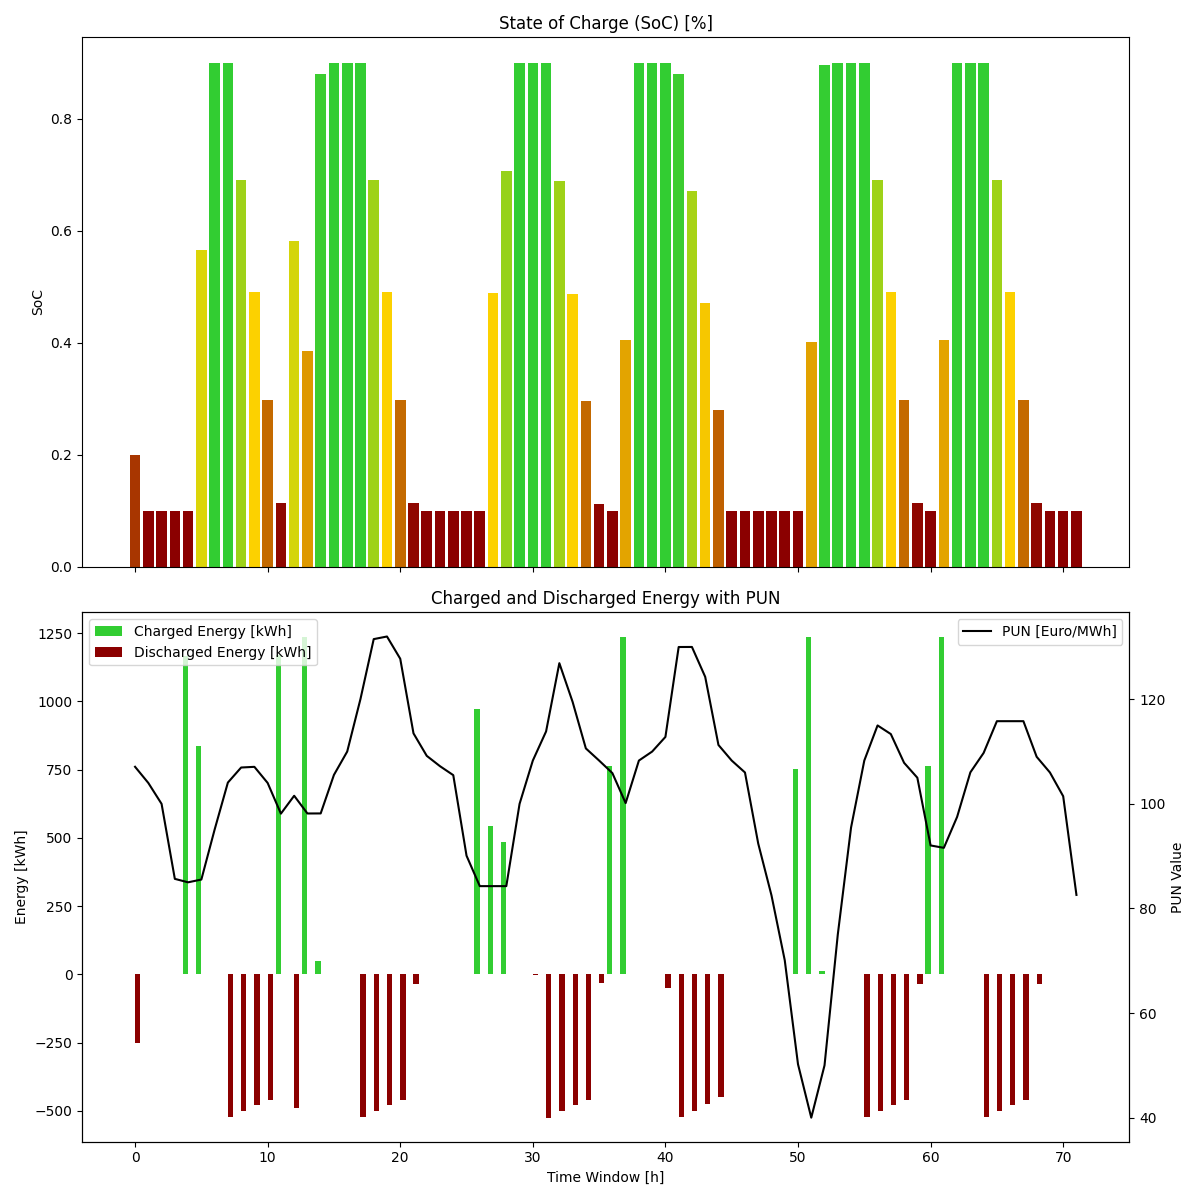
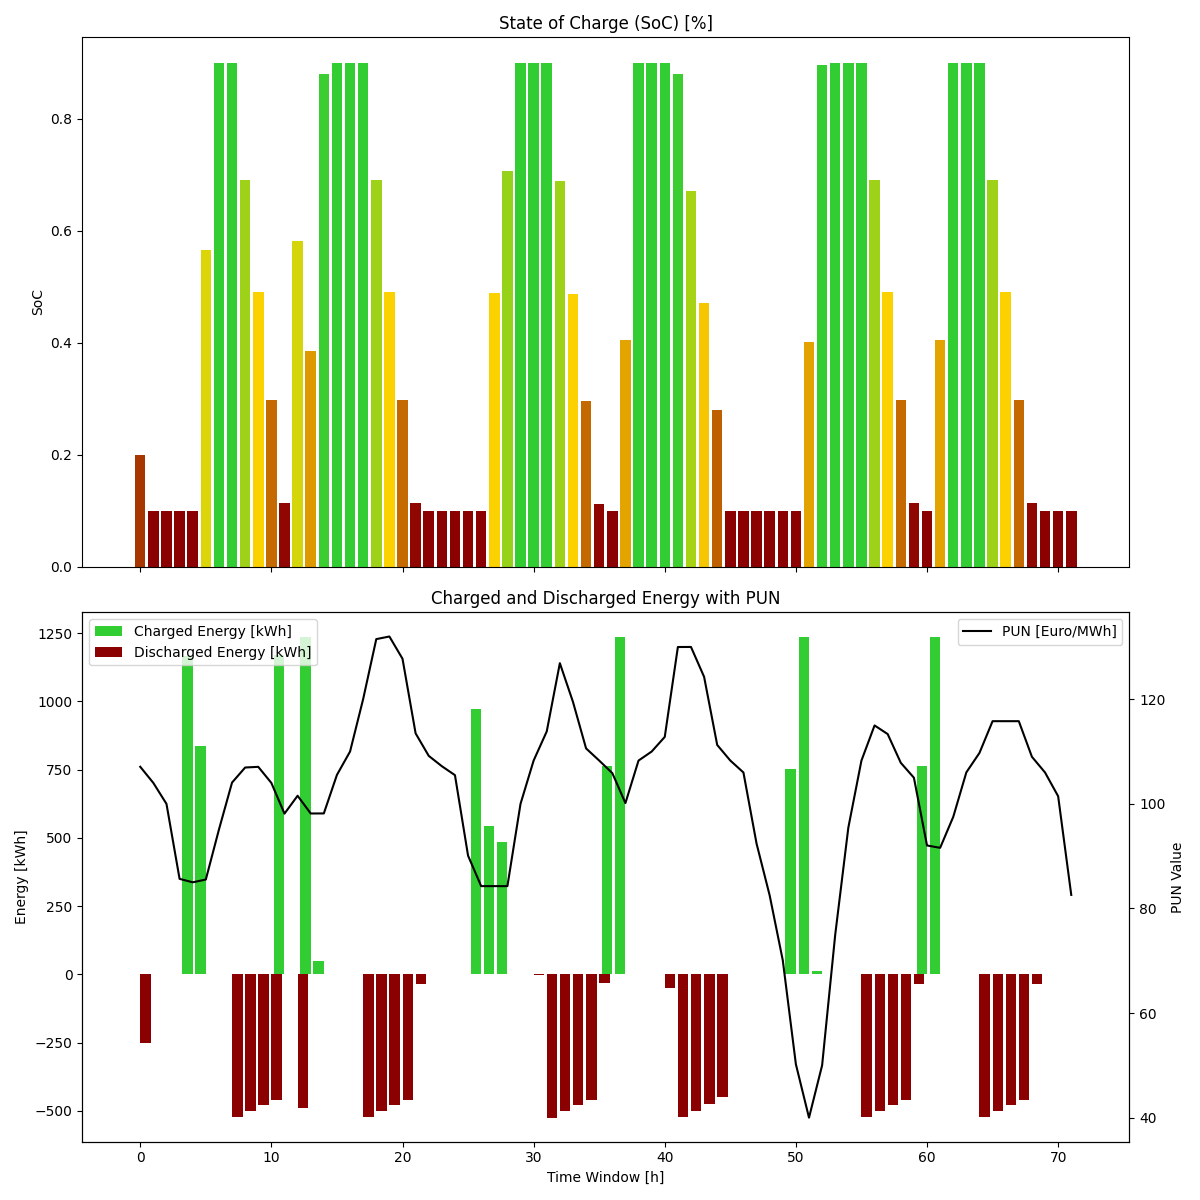
Update #22

diff --git a/objective_function.py b/objective_function.py
@@ -1,22 +1,9 @@
 import numpy as np
+import configuration
+import Economic_parameters
 
 from pymoo.core.problem import ElementwiseProblem
-from BESS_parameters import size
-from Economic_parameters import PUN_timeseries
-from BESS_parameters import charge_rate_interpolated_func, discharge_rate_interpolated_func
-
-from configuration import time_window, tolerance, period, soc_0, pop_size, termination, n_gen
-
-
-# DEFINE OPTIMIZATION PARAMETERS
-
-time_window = time_window
-n_gen = n_gen
-tolerance = tolerance
-period = period
-soc_0 = soc_0
-pop_size = pop_size
-termination = termination
+from BESS_model import BESS_model
 
 
 # DEFINE OPTIMIZATION PROBLEM
@@ -27,28 +14,32 @@ class Revenues(ElementwiseProblem):
 
     ) -> None:
         super().__init__(
-            n_var=time_window,
-            n_obj=1,
-            xl=[-1] * time_window,
-            xu=[1] * time_window,
+            n_var= configuration.time_window,
+            n_obj=configuration.n_obj,
+            xl=[-1] * configuration.time_window,
+            xu=[1] * configuration.time_window,
             vtype=float, **kwargs
         )
 
         # DEFINE REVENUES ATTRIBUTES FROM IMPORTER PARAMETERS
 
-        self.PUN_timeseries = PUN_timeseries
-        self.c_func, self.d_func = charge_rate_interpolated_func, discharge_rate_interpolated_func
+        self.PUN_timeseries = Economic_parameters.PUN_timeseries
+        self.c_func, self.d_func = configuration.charge_rate_interpolated_func, configuration.discharge_rate_interpolated_func
 
         # DEFINE OBJECTIVE FUNCTION PARAMETERS
 
         self.soc = np.zeros((len(self.PUN_timeseries)))
         self.charged_energy = np.zeros((len(self.PUN_timeseries)))
         self.discharged_energy = np.zeros((len(self.PUN_timeseries)))
-        self.c_func, self.d_func = charge_rate_interpolated_func, discharge_rate_interpolated_func
+        self.c_func, self.d_func = configuration.charge_rate_interpolated_func, configuration.discharge_rate_interpolated_func
 
         # INITIALIZE SoC AT t=0
 
-        self.soc[0] = soc_0
+        self.soc[0] = configuration.soc_0
+
+        self.time_window = configuration.time_window
+        self.size = configuration.size
+
 
     # OBJECTIVE FUNCTION DEFINITION
 
@@ -56,39 +47,15 @@ class Revenues(ElementwiseProblem):
 
         # SET X-VECTOR TO BE OPTIMIZED AS THE % OF CHARGED AND DISCHARGED ENERGY FROM BESS
 
-        self.c_d_timeseries = np.array(x).reshape(time_window)
+        self.c_d_timeseries = np.array(x).reshape(configuration.time_window)
 
         # EVALUATE THE CHARGED AND DISCHARGED ENERGY AND UPDATE THE SoC FOR EACH TIMESTEP t
 
-        for index in range(len(self.PUN_timeseries) - 1):
+        # Create an instance of BESS_model
+        bess_model = BESS_model(self.time_window, self.PUN_timeseries, self.soc, self.size, self.c_func, self.d_func)
 
-            # APPLY PHYSICAL CONSTRAINTS TO BESS DURING THE TIMESTEP t
-
-            if self.c_d_timeseries[index] >= 0.0:
-                self.c_d_timeseries[index] = np.minimum(self.c_d_timeseries[index],
-                                                 np.minimum(self.c_func(self.soc[index]), 0.9 - self.soc[index]))
-            else:
-                self.c_d_timeseries[index] = np.maximum(self.c_d_timeseries[index],
-                                                 np.maximum(-self.d_func(self.soc[index]), 0.1 - self.soc[index]))
-
-            # EVALUATE CHARGED AND DISCHARGED ENERGY FOR THE TIMESTEP t
-
-            if self.c_d_timeseries[index] >= 0:
-                self.charged_energy[index] = self.c_d_timeseries[index] * size
-                self.discharged_energy[index] = 0.0
-            elif self.c_d_timeseries[index] <= 0:
-                self.discharged_energy[index] = self.c_d_timeseries[index] * size
-                self.charged_energy[index] = 0.0
-            else:
-                self.charged_energy[index] = 0.0
-                self.discharged_energy[index] = 0.0
-
-            # UPDATE THE SoC FOR THE TIMESTEP t
-
-            if self.c_d_timeseries[index] >= 0.0:
-                self.soc[index + 1] = np.minimum(1, self.soc[index] + self.charged_energy[index] / size)
-            else:
-                self.soc[index + 1] = max(0.0, self.soc[index] + self.discharged_energy[index] / size)
+        # Run the simulation
+        self.charged_energy, self.discharged_energy = bess_model.run_simulation(self.c_d_timeseries)
 
         # EVALUATE THE REVENUES OBTAINED FOR EACH TIMESTEP t
 

diff --git a/BESS_model.py b/BESS_model.py
@@ -1,0 +1,41 @@
+import numpy as np
+
+class BESS_model:
+    def __init__(self, time_window, PUN_timeseries, soc, size, c_func, d_func):
+        self.time_window = time_window
+        self.PUN_timeseries = PUN_timeseries
+        self.soc = soc
+        self.size = size
+        self.c_func = c_func
+        self.d_func = d_func
+        self.charged_energy = np.zeros(len(PUN_timeseries))
+        self.discharged_energy = np.zeros(len(PUN_timeseries))
+        self.c_d_timeseries = None
+
+    def run_simulation(self, c_d_timeseries):
+        self.c_d_timeseries = np.array(c_d_timeseries).reshape(self.time_window)
+
+        for index in range(len(self.PUN_timeseries) - 1):
+            if self.c_d_timeseries[index] >= 0.0:
+                self.c_d_timeseries[index] = np.minimum(self.c_d_timeseries[index],
+                                                        np.minimum(self.c_func(self.soc[index]), 0.9 - self.soc[index]))
+            else:
+                self.c_d_timeseries[index] = np.maximum(self.c_d_timeseries[index],
+                                                        np.maximum(-self.d_func(self.soc[index]), 0.1 - self.soc[index]))
+
+            if self.c_d_timeseries[index] >= 0:
+                self.charged_energy[index] = self.c_d_timeseries[index] * self.size
+                self.discharged_energy[index] = 0.0
+            elif self.c_d_timeseries[index] <= 0:
+                self.discharged_energy[index] = self.c_d_timeseries[index] * self.size
+                self.charged_energy[index] = 0.0
+            else:
+                self.charged_energy[index] = 0.0
+                self.discharged_energy[index] = 0.0
+
+            if self.c_d_timeseries[index] >= 0.0:
+                self.soc[index + 1] = np.minimum(1, self.soc[index] + self.charged_energy[index] / self.size)
+            else:
+                self.soc[index + 1] = max(0.0, self.soc[index] + self.discharged_energy[index] / self.size)
+
+        return self.charged_energy, self.discharged_energy

diff --git a/configuration.py b/configuration.py
@@ -11,6 +11,56 @@ from pymoo.util.ref_dirs import get_reference_directions
 from pymoo.core.termination import TerminateIfAny
 from pymoo.termination import get_termination
 
+from utils import Get_data
+from utils import BESS
+
+# FILE PATH DATA
+
+file_path = "BESS Data.xlsx"
+sheetname = "BESS Properties"
+sheetname2 = "Li-ion ChargeDischarge Curve 10"
+file_path2 = "PUN.xlsx"
+sheetname3 = "PUN"
+
+'''
+DEFINE BESS PARAMETERS:
+
+   1) Technology
+   2) Nominal Capacity / Nominal Power (Specific Energy / Specific Power)
+   3) Size
+
+'''
+
+
+# BESS Parameters
+
+technology = "Li-ion"     #Define BESS Technology
+se_sp = 10   #Define Nominal Capacity / Nominal Power - Parameter
+size = 2500  #Define BESS size (Nominal Capacity) in kWh
+
+# LOADING FILES
+
+properties = Get_data.get_data(file_path, sheetname)
+PUN = Get_data.get_data(file_path2, sheetname3)
+load_curve = Get_data.get_data(file_path, sheetname2)
+
+
+# TAKE CHARGE AND DISCHARGE BATTERY LOAD CURVES (to do: still to be automatized)
+
+charge_rate = load_curve.iloc[:356, [0, 3, 5]]
+discharge_rate = load_curve.iloc[357:, [0, 4, 5]]
+
+
+# GET CHOSEN BESS PARAMETERS
+
+BESS_Parameters = BESS.get_bess(technology, properties, se_sp, size)
+
+
+# INTERPOLATE CHARGE AND DISCHARGE FUNCTIONS FROM CHARGE AND DISCHARGE RATE
+
+charge_rate_interpolated_func, discharge_rate_interpolated_func = BESS.get_c_d_functions(load_curve)
+
+
 ''' 
 OPTIMIZATION PARAMETERS:
 

diff --git a/main.py b/main.py
@@ -1,7 +1,7 @@
 import numpy as np
 
-from objective_function import Revenues, pop_size, time_window, soc_0
-from BESS_parameters import charge_rate_interpolated_func, discharge_rate_interpolated_func, size, charge_rate, discharge_rate
+from objective_function import Revenues
+from configuration import charge_rate_interpolated_func, discharge_rate_interpolated_func, size, charge_rate, discharge_rate, pop_size, soc_0, time_window
 from Economic_parameters import PUN_timeseries
 from Optimizer import Optimizer
 from Plots import EnergyPlots

diff --git a/Plots.py b/Plots.py
@@ -69,7 +69,7 @@ class EnergyPlots:
         ax0.set_ylabel('SoC')
 
         # Plot charged and discharged energy with PUN on the second subplot
-        width = 0.4
+        width = 0.8
         ax1.bar(time_steps_24 - width / 2, charged_energy_24, width=width, color='limegreen',
                 label='Charged Energy [kWh]')
         ax1.bar(time_steps_24 + width / 2, discharged_energy_24, width=width, color='darkred',
